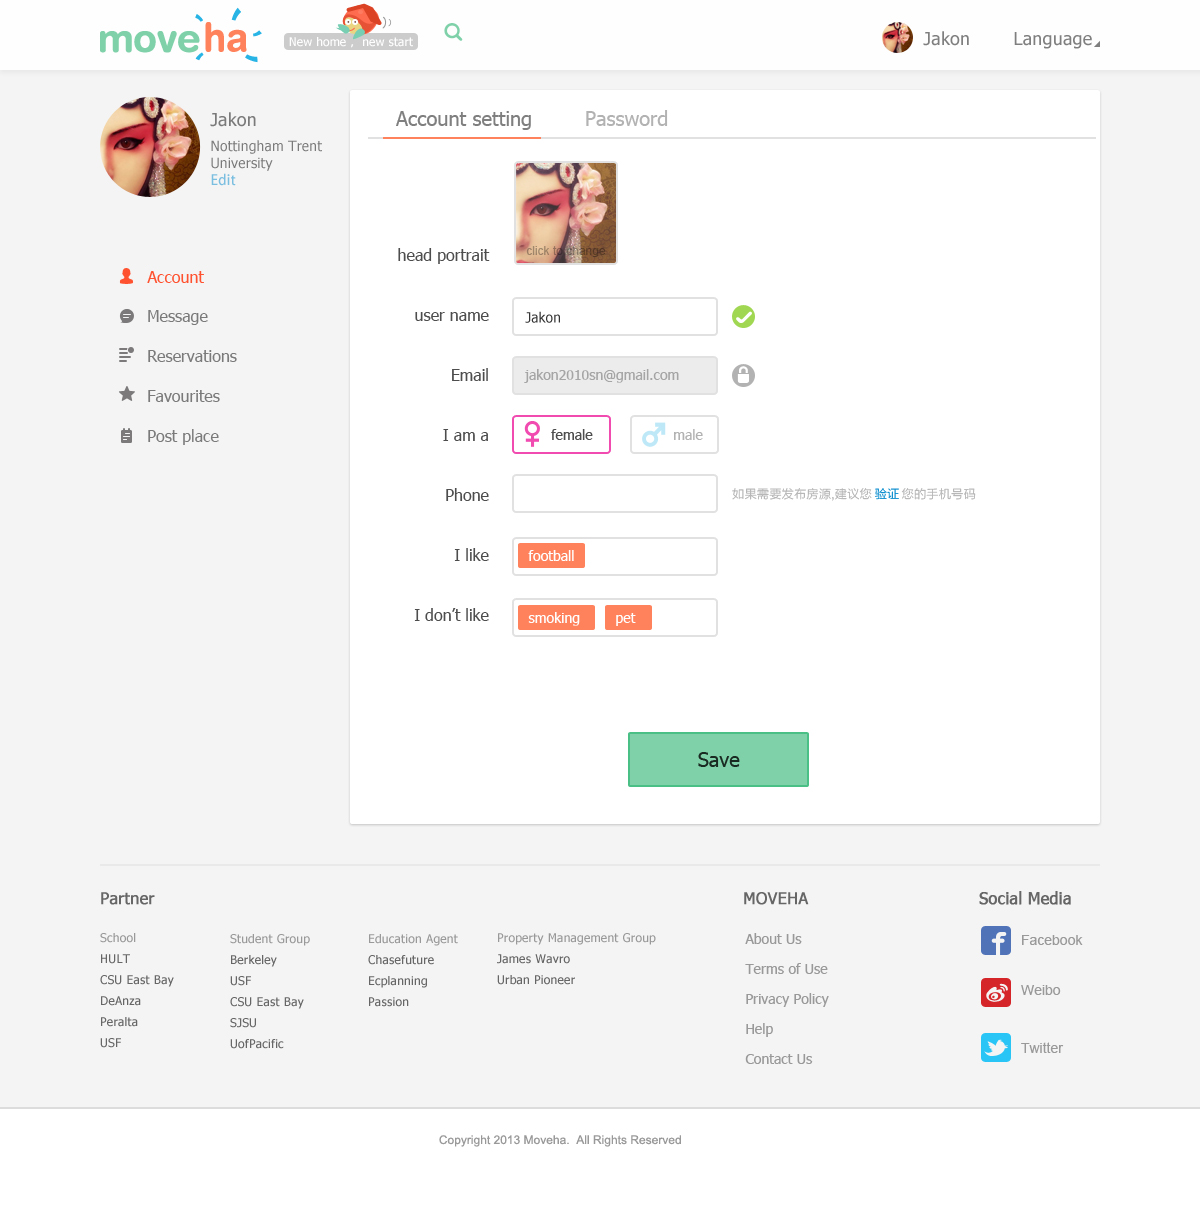
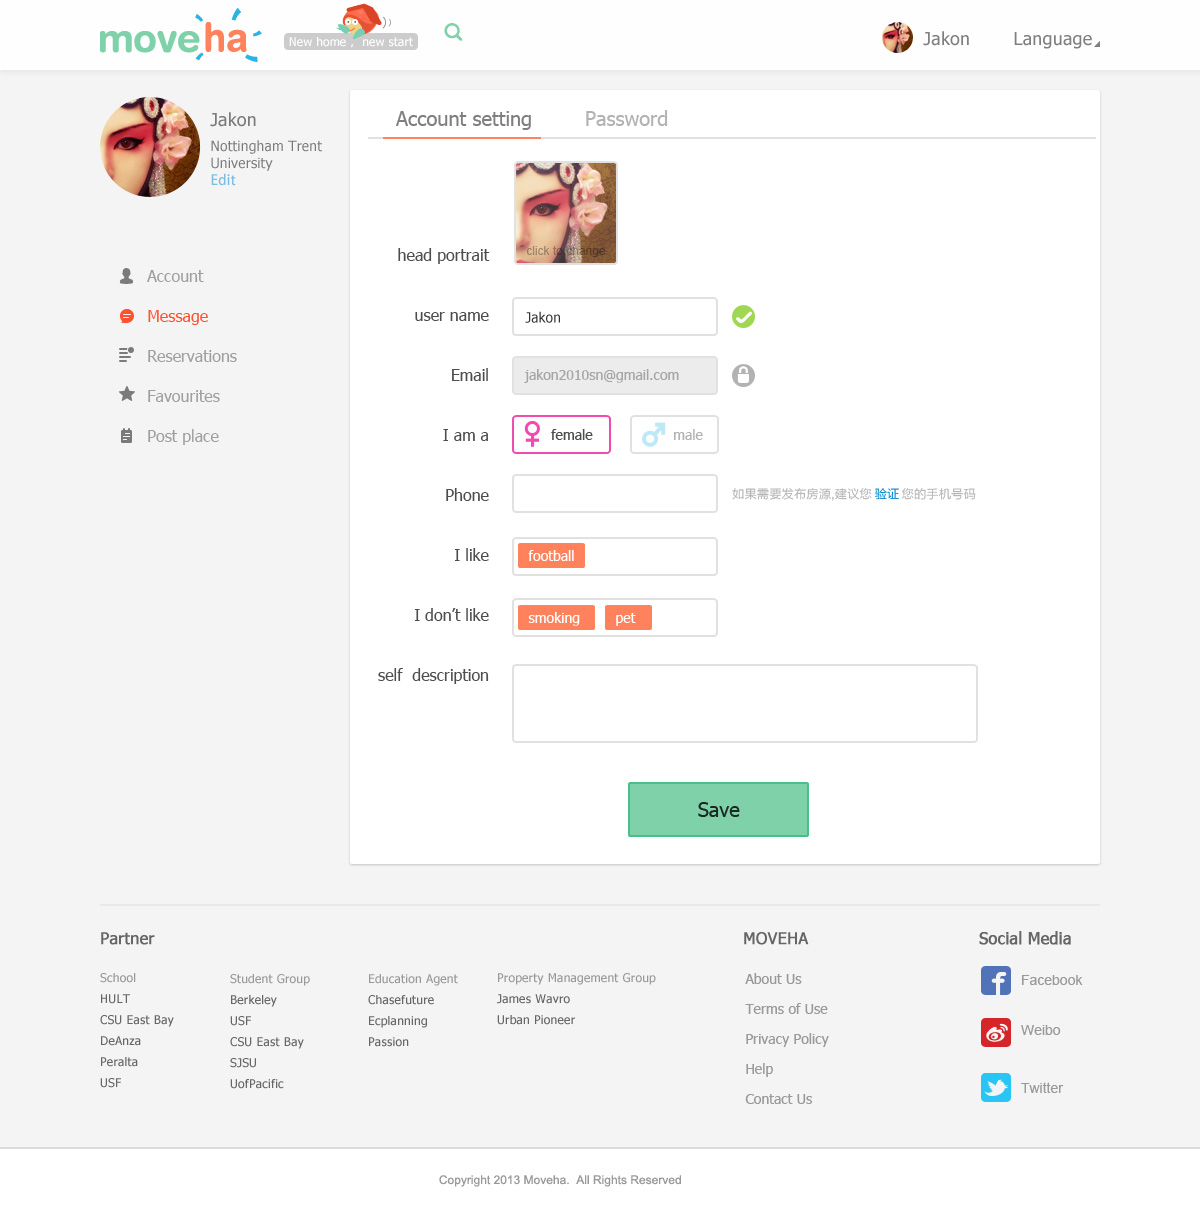
账户视觉稿更新了 表格体系更加全面

diff --git a/moveha/account.html b/moveha/account.html
@@ -6,6 +6,9 @@
 </head>
 <body>
 <style type="text/css">
+    body{
+        background-color: #ececec;;
+    }
     img{
         margin-bottom: 100px;
         box-shadow: 0 3px 8px #dbdbdb;
@@ -13,6 +16,9 @@
 </style>
 <div style="margin: auto;text-align: center">
     <img src="account_set.jpg" >
+    <img src="account_Message.png" >
+    <img src="account_reply.png">
+    <img src="account_house.png">
 </div>
 </body>
 </html>

diff --git a/moveha/moveha.html b/moveha/moveha.html
@@ -71,7 +71,7 @@
             <a href="Details.html" target="_blank">房源detail(20140419)</a>
         </li>
         <li>
-            <a href="account.html" target="_blank">账户(20140421)</a>
+            <a href="account.html" target="_blank">账户(20140503)</a>
         </li>
     </ul>
 </div>
